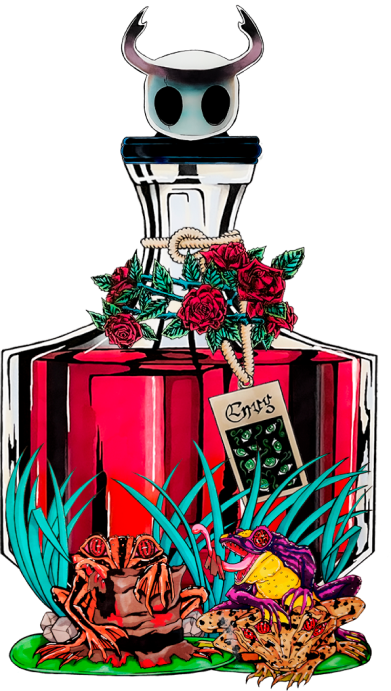
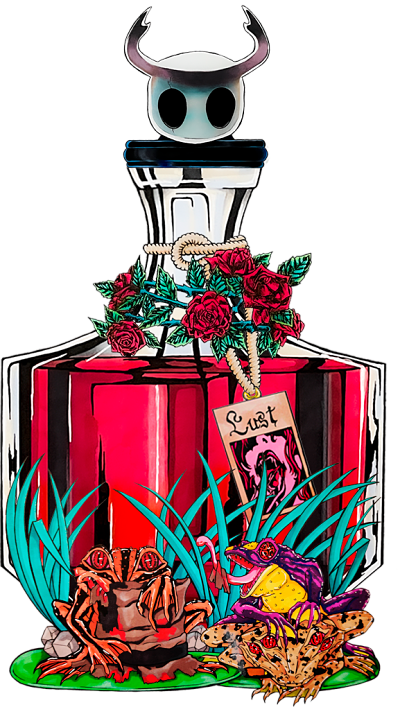
add new potions

diff --git a/ui/index/Traits.jsx b/ui/index/Traits.jsx
@@ -66,6 +66,9 @@ import traits_potion_3 from "@assets/traits_potion_3.png";
 import traits_potion_4 from "@assets/traits_potion_4.png";
 import traits_potion_5 from "@assets/traits_potion_5.png";
 import traits_potion_6 from "@assets/traits_potion_6.png";
+import traits_potion_7 from "@assets/traits_potion_7.png";
+import traits_potion_8 from "@assets/traits_potion_8.png";
+import traits_potion_9 from "@assets/traits_potion_9.png";
 
 import traits_back_1 from "@assets/traits_back_1.png";
 import traits_back_2 from "@assets/traits_back_2.png";
@@ -187,9 +190,9 @@ function Traits() {
     traits_potion_4,
     traits_potion_5,
     traits_potion_6,
-    traits_potion_1,
-    traits_potion_2,
-    traits_potion_3,
+    traits_potion_7,
+    traits_potion_8,
+    traits_potion_9,
     traits_potion_4,
     traits_potion_5,
     traits_potion_6,

diff --git a/styles/hero.module.sass b/styles/hero.module.sass
@@ -59,8 +59,6 @@
             width: 200px
         @media screen and ( min-width: 900px ) and (min-height: 620px)
             width: 300px
-        @media screen and ( min-width: 900px ) and (min-height: 750px)
-            width: 350px
         @media screen and ( min-width: 1200px ) and (min-height: 900px)
             width: 400px
  

diff --git a/styles/traits.module.sass b/styles/traits.module.sass
@@ -1,6 +1,9 @@
 .container
     margin-top: 100px
-    text-align: center
+    text-align: left 
+
+    h2 
+        margin-left: 50px
 
 .backImg
     max-width: none

diff --git a/styles/title.module.sass b/styles/title.module.sass
@@ -1,5 +1,5 @@
 .title 
-    font-family: 'New Rocker', cursive
+    font-family: 'Indie flower', cursive
     color: #EA3144
 
 .lg
